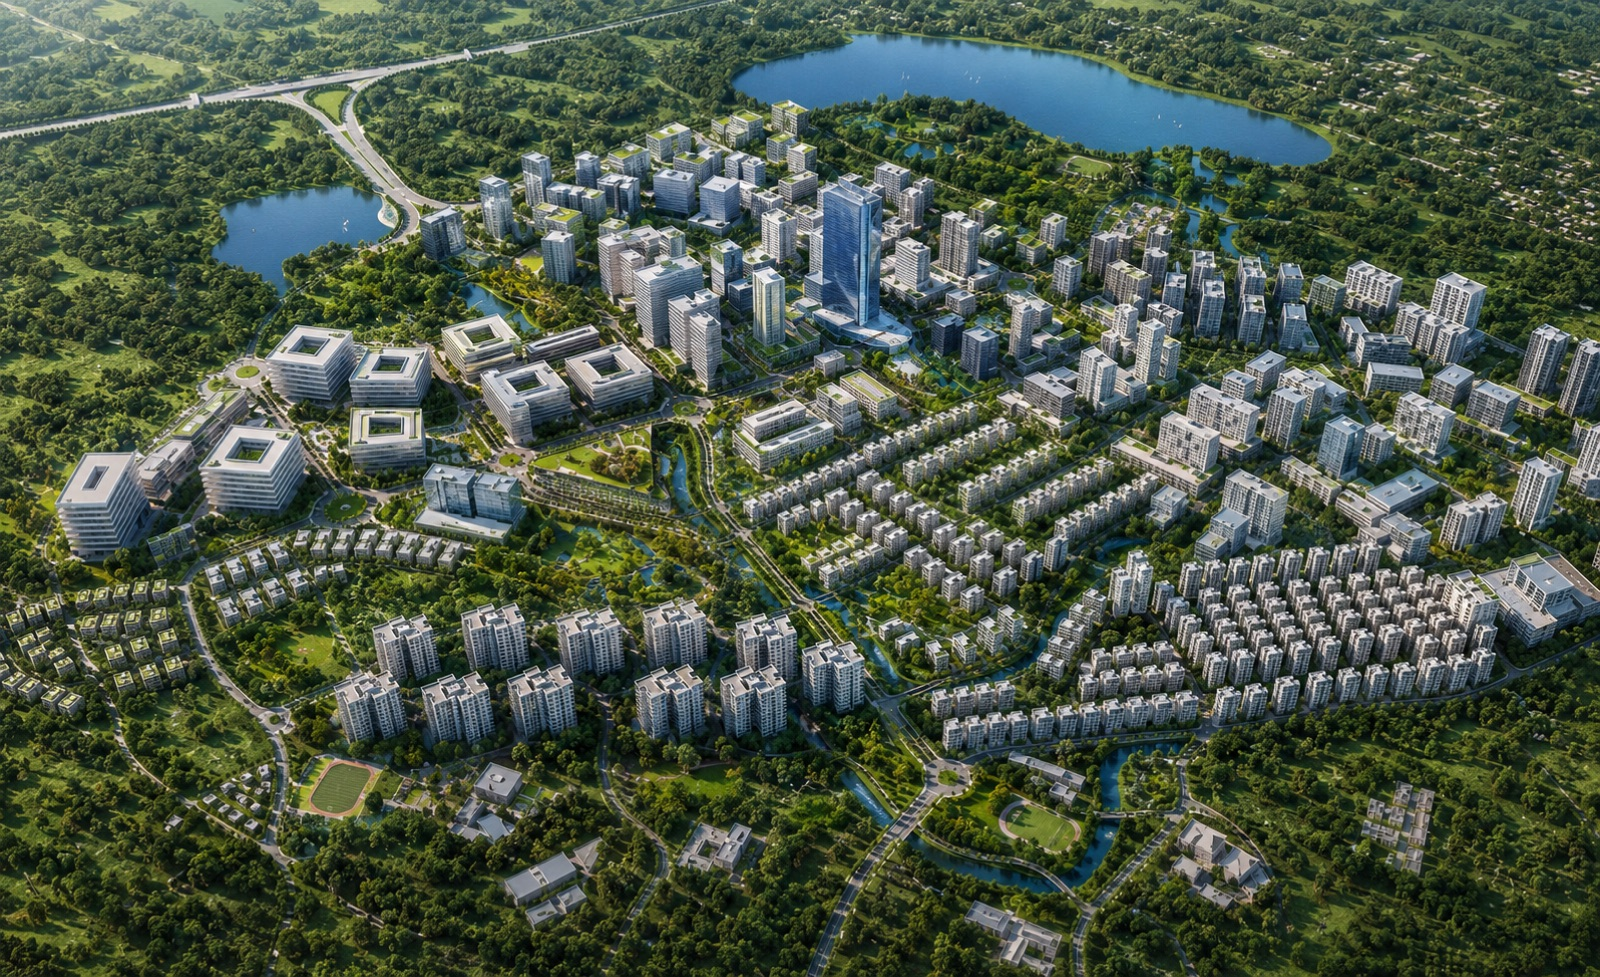
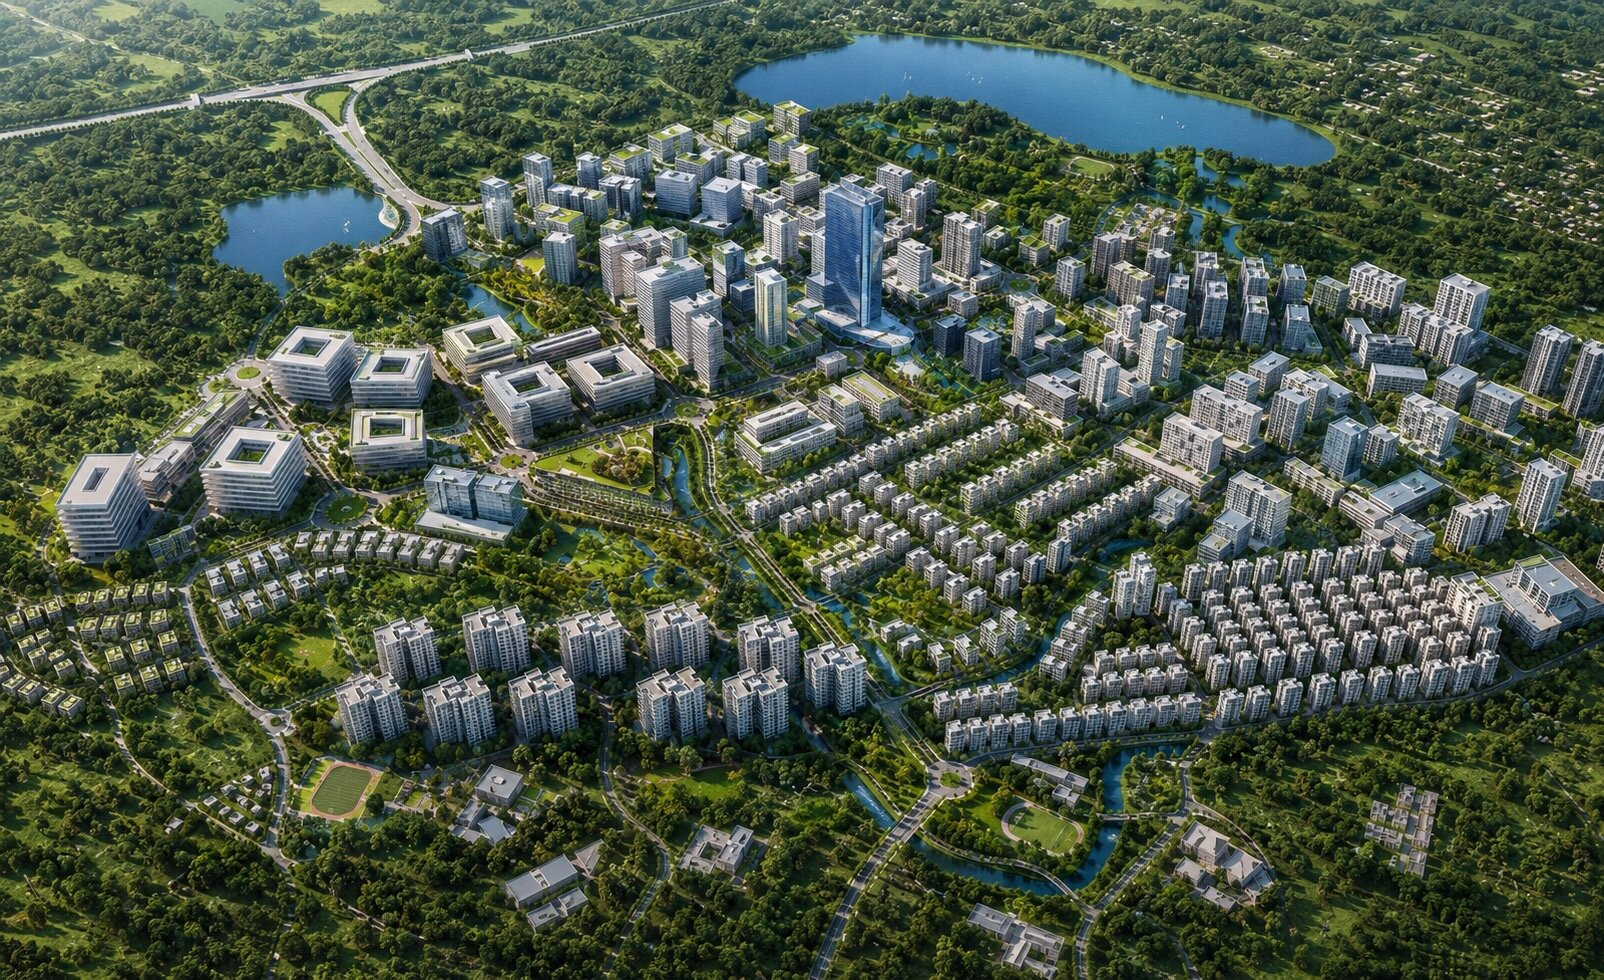
Replace master planning images with authorized source from /Desktop/Ink Architecture/Master Planning PDF
- TATA Realty SEZ: 2 images (entrance gate + aerial master plan)
- Aroma Villas: 1 image (master plan with community zones)
- Premier Builders Bangalore: 1 image (master plan layout)
- Premier Builders Manipal: 3 images (master plan phases)

Uses ONLY content from the authorized Master Planning folder, excluding all blank slides.

diff --git a/index.html b/index.html
@@ -765,10 +765,8 @@ img{display:block; max-width:100%;}
       specs:[["Client","TATA Realty"],["Site area","2,500 acres"],["Built-up","1 million sft (Phase 1)"],["Scope","Master plan report"]],
       desc:"A 2,500-acre industrial SEZ master plan for TATA Realty at Gopalpur, Odisha, covering phased development of industrial plots, township and green infrastructure.",
       images:[
-        {src:"assets/projects/tata-sez-gopalpur/01.jpg", caption:"Gateway structure at the SEZ entrance"},
-        {src:"assets/projects/tata-sez-gopalpur/02.jpg", caption:"Aerial view of the master plan"},
-        {src:"assets/projects/tata-sez-gopalpur/03.jpg", caption:"Aerial view — township precinct"},
-        {src:"assets/projects/tata-sez-gopalpur/04.jpg", caption:"Master plan overview"}
+        {src:"assets/projects/tata-sez-gopalpur/01.jpg", caption:"Gateway entrance to the SEZ"},
+        {src:"assets/projects/tata-sez-gopalpur/02.jpg", caption:"Master plan aerial view"}
       ]
     },
     "aroma-villas": {
@@ -776,11 +774,7 @@ img{display:block; max-width:100%;}
       specs:[["Client","AROMA"],["Site area","30 acres"],["Units","200 villas"],["Scope","Master plan, villas, clubhouse"]],
       desc:"A 30-acre, 200-villa master-planned community named Aroma Villas at Trivandrum for client AROMA, combining a clubhouse, pool and landscaped grounds within a curved master plan.",
       images:[
-        {src:"assets/projects/aroma-villas/01.jpg", caption:"Villa unit, daytime elevation"},
-        {src:"assets/projects/aroma-villas/02.jpg", caption:"Entrance gateway"},
-        {src:"assets/projects/aroma-villas/03.jpg", caption:"Villa unit, evening view"},
-        {src:"assets/projects/aroma-villas/04.jpg", caption:"Aerial view of the villa community master plan"},
-        {src:"assets/projects/aroma-villas/05.jpg", caption:"Master plan with zones"}
+        {src:"assets/projects/aroma-villas/01.jpg", caption:"Master plan with community zones"}
       ]
     },
     "premier-builders-bangalore": {
@@ -788,8 +782,7 @@ img{display:block; max-width:100%;}
       specs:[["Client","Premier Builders, Udupi"],["Site area","5 acres"],["Units","55"]],
       desc:"A 55-unit gated villa community in Bangalore for Premier Builders, Udupi, set within a landscaped master plan with a clubhouse, courts and a children's play area.",
       images:[
-        {src:"assets/projects/premier-builders-bangalore/01.jpg", caption:"Master site plan"},
-        {src:"assets/projects/premier-builders-bangalore/02.jpg", caption:"Master plan layout"}
+        {src:"assets/projects/premier-builders-bangalore/01.jpg", caption:"Master plan layout"}
       ]
     },
     "villas-manipal": {
@@ -797,9 +790,9 @@ img{display:block; max-width:100%;}
       specs:[["Client","Premier Builders, Udupi"],["Site area","5.5 acres"],["Units","55"],["Built-up","2,50,000 sft"],["Scope","Architecture, interior design, MEPF, C&S, landscape"]],
       desc:"A gated villa community at Manipal for Premier Builders, Udupi, with individually designed row-villa typologies set within a landscaped master plan.",
       images:[
-        {src:"assets/projects/villas-manipal/01.jpg", caption:"Villa row, street elevation"},
-        {src:"assets/projects/villas-manipal/02.jpg", caption:"Master site plan with villa typologies"},
-        {src:"assets/projects/villas-manipal/03.jpg", caption:"Master plan layout"}
+        {src:"assets/projects/villas-manipal/01.jpg", caption:"Master plan layout — Phase 1"},
+        {src:"assets/projects/villas-manipal/02.jpg", caption:"Master plan layout — Phase 2"},
+        {src:"assets/projects/villas-manipal/03.jpg", caption:"Master plan layout — complete view"}
       ]
     },
     "villa-13-1": {
